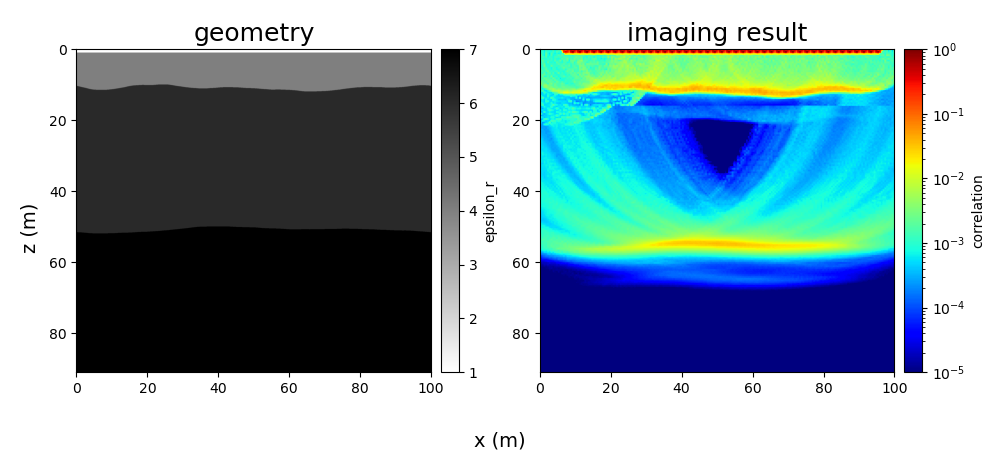
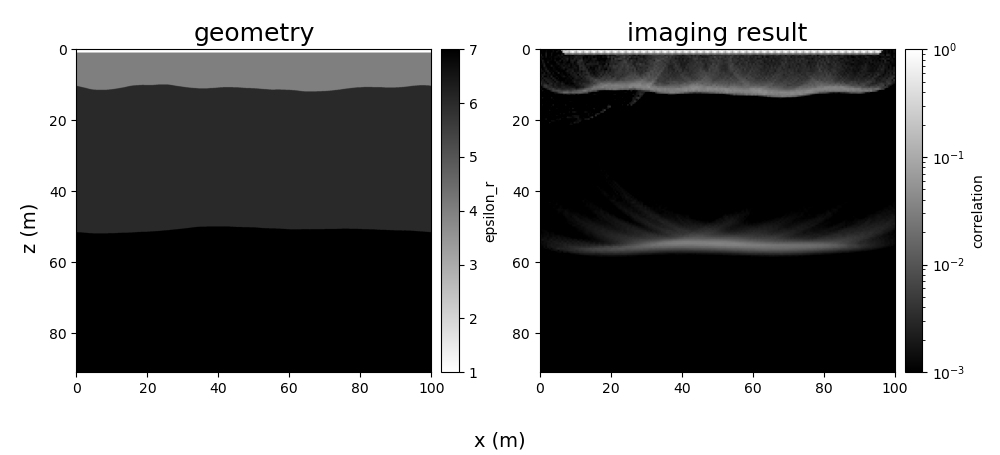
Update imaging result visualization

Changed region(s): [[0.527, 0.0923, 0.961, 0.8615], [0.403, 0.8308, 0.465, 0.8615]]

diff --git a/tools/plot_geometry_imaging.py b/tools/plot_geometry_imaging.py
@@ -58,7 +58,8 @@ plt.colorbar(img1, cax=cax1, label='epsilon_r')
 img2 = ax[1].imshow(imaging_result,
                 extent = [0, imaging_result.shape[1]*params['imaging_resolution'],
                         imaging_result.shape[0]*params['imaging_resolution'], 0],
-                cmap='jet', aspect=1, norm=colors.LogNorm(vmin=1e-5, vmax=np.amax(imaging_result)))
+                cmap='gray', # recommended: 'jet', 'gray'
+                aspect=1, norm=colors.LogNorm(vmin=1e-3, vmax=np.amax(imaging_result)))
 
 ax[1].set_title('imaging result', size=18)
 
